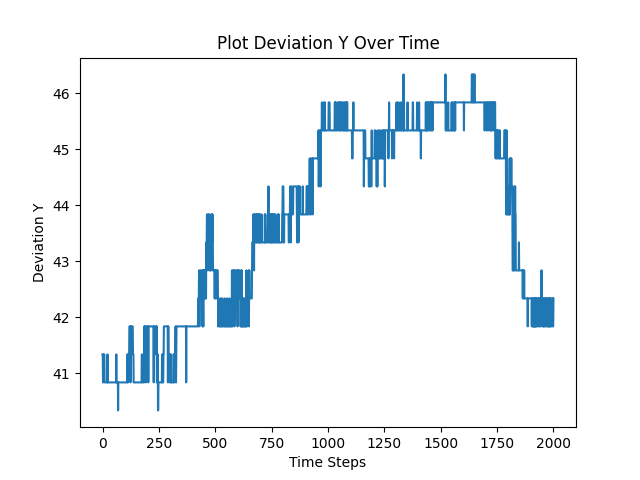
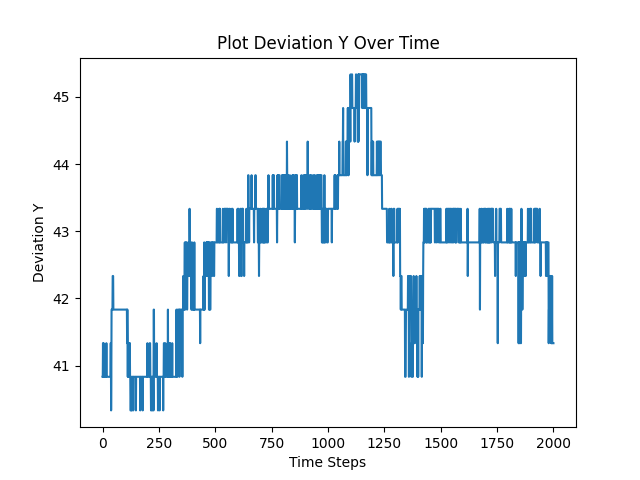
add: daily checkpoint

diff --git a/controllers/main/VisuoExcaRobo.py b/controllers/main/VisuoExcaRobo.py
@@ -290,19 +290,26 @@ class VisuoExcaRobo:
             step += 1
 
         print("Test Job Done. Saving Results...")
+        
+        # print last values of each list
+        print(self.env_type, " test_2")
+        print(f"reward_list: {reward_list[-1]}")
+        print(f"target_area_list: {target_area_list[-1]}")
+        print(f"deviation_x_list: {deviation_x_list[-1]}")
+        print(f"deviation_y_list: {deviation_y_list[-1]}")
 
         # Plot the results
-        self.plot_results("test_1", reward_list, "Reward", "Plot Reward Over Time")
+        self.plot_results("test_2", reward_list, "Reward", "Plot Reward Over Time")
         self.plot_results(
-            "test_1", deviation_x_list, "Deviation X", "Plot Deviation X Over Time"
+            "test_2", deviation_x_list, "Deviation X", "Plot Deviation X Over Time"
         )
         self.plot_results(
-            "test_1", deviation_y_list, "Deviation Y", "Plot Deviation Y Over Time"
+            "test_2", deviation_y_list, "Deviation Y", "Plot Deviation Y Over Time"
         )
         self.plot_results(
-            "test_1", target_area_list, "Target Area", "Plot Target Area Over Time"
+            "test_2", target_area_list, "Target Area", "Plot Target Area Over Time"
         )
-        self.plot_trajectory("test_1", position_list)
+        self.plot_trajectory("test_2", position_list)
     
     def test_2(
         self, max_steps: int = 3000, model_dir: str = None

diff --git a/controllers/main/Color_VisuoExcaRobo.py b/controllers/main/Color_VisuoExcaRobo.py
@@ -18,7 +18,7 @@ except ImportError:
 
 # Constants used in the environment
 ENV_ID = "Color_VisuoExcaRobo"
-OBS_SPACE_SCHEMA = 2  # 1: coordinates of the target, 2: pure image
+OBS_SPACE_SCHEMA = 1  # 1: coordinates of the target, 2: pure image
 REWARD_SCHEMA = 1  # 1: reward function based on pixel position, 2: reward function based on distance
 MAX_EPISODE_STEPS = 2000
 MAX_WHEEL_SPEED = 5.0

diff --git a/controllers/main/YOLO_VisuoExcaRobo.py b/controllers/main/YOLO_VisuoExcaRobo.py
@@ -19,7 +19,7 @@ except ImportError:
 
 # Constants used in the environment
 ENV_ID = "YOLO_VisuoExcaRobo"
-OBS_SPACE_SCHEMA = 2  # 1: coordinates of the target, 2: pure image
+OBS_SPACE_SCHEMA = 1  # 1: coordinates of the target, 2: pure image
 REWARD_SCHEMA = 1  # 1: reward function based on pixel position, 2: reward function based on distance
 MAX_EPISODE_STEPS = 2000
 MAX_WHEEL_SPEED = 5.0
